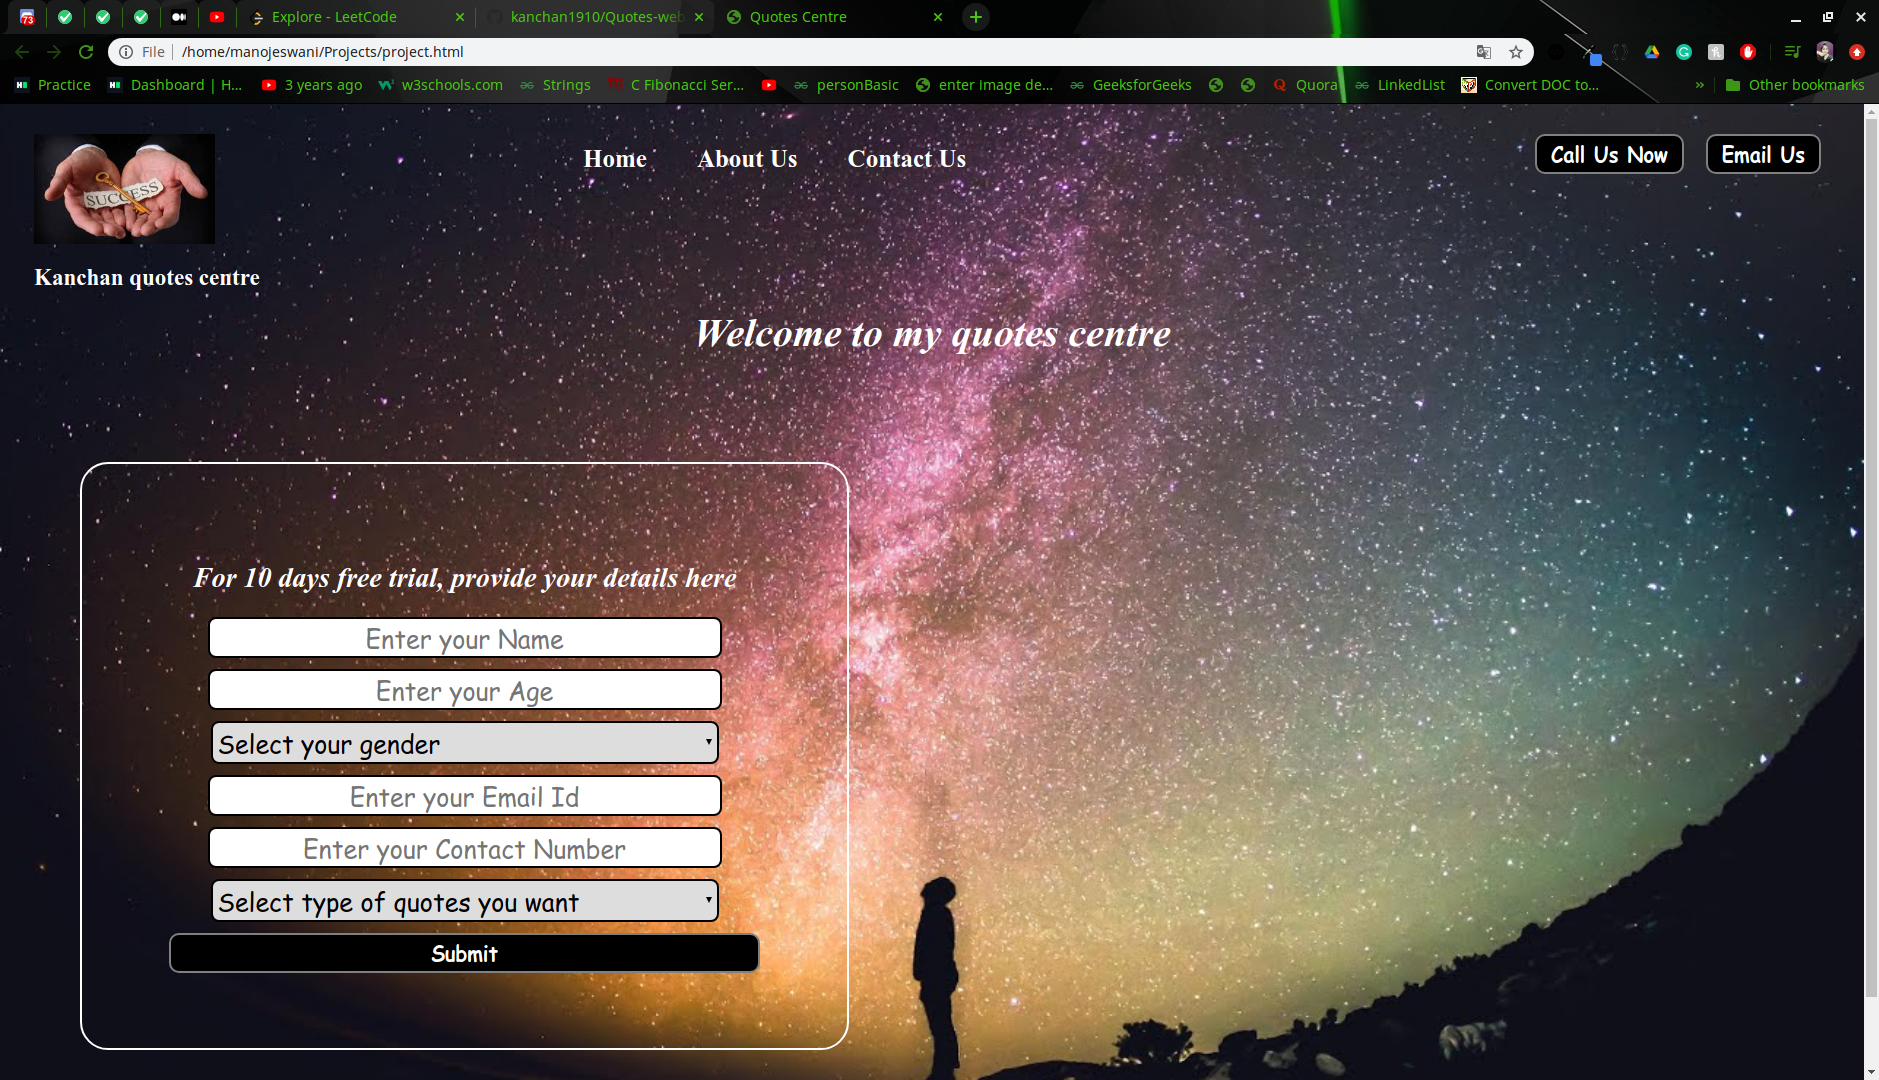
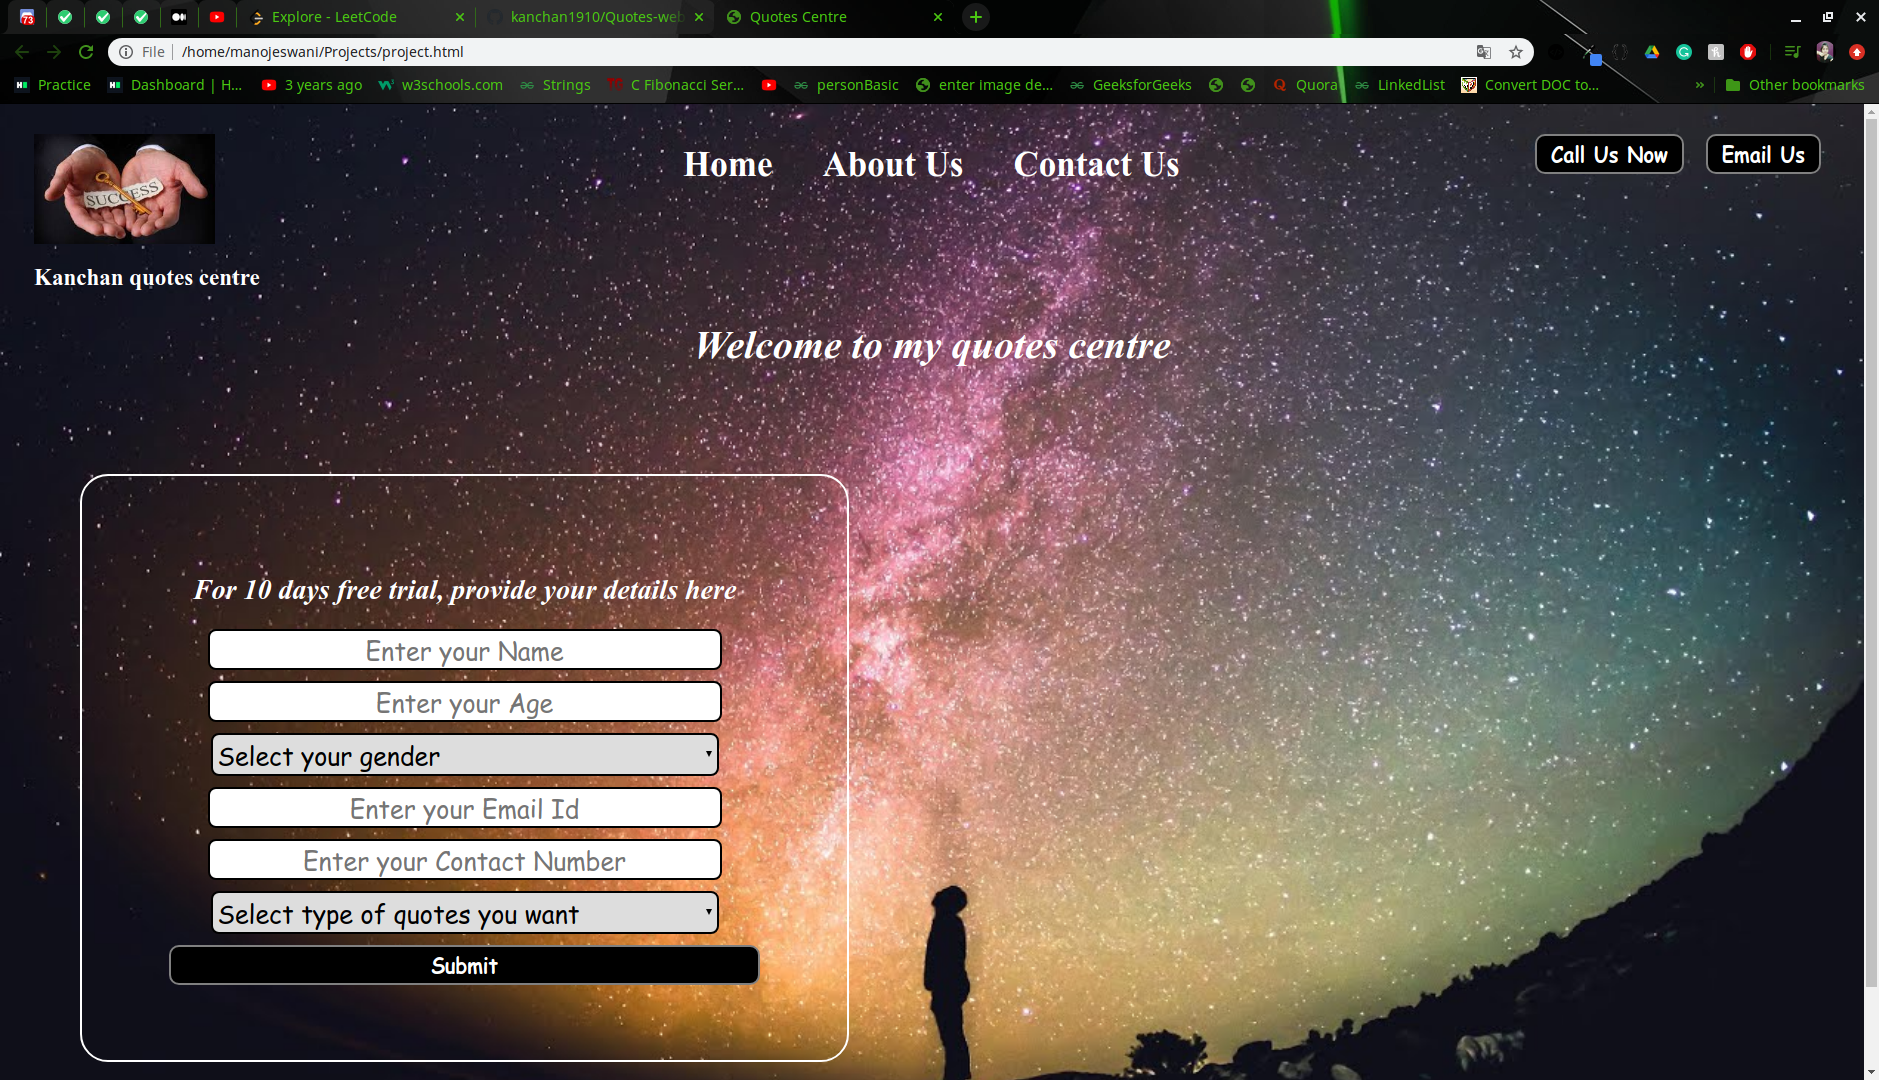
Updated some features

diff --git a/projects.css b/projects.css
@@ -42,7 +42,7 @@ body
 {
     display: inline-block;
     margin-top: 25px;
-    margin-left: 520px;
+    margin-left: 620px;
 }
 
 .right 
@@ -61,7 +61,7 @@ body
 .navbar li
 {
     display: inline-block;
-    font-size: 25px;
+    font-size: 35px;
 }
 
 .navbar li a 
@@ -135,7 +135,7 @@ h4
     border: 2px solid black;
     margin: 11px auto;
     font-size: 25px;
-     border-radius: 8px;
+    border-radius: 8px;
 }
 
 .container button
